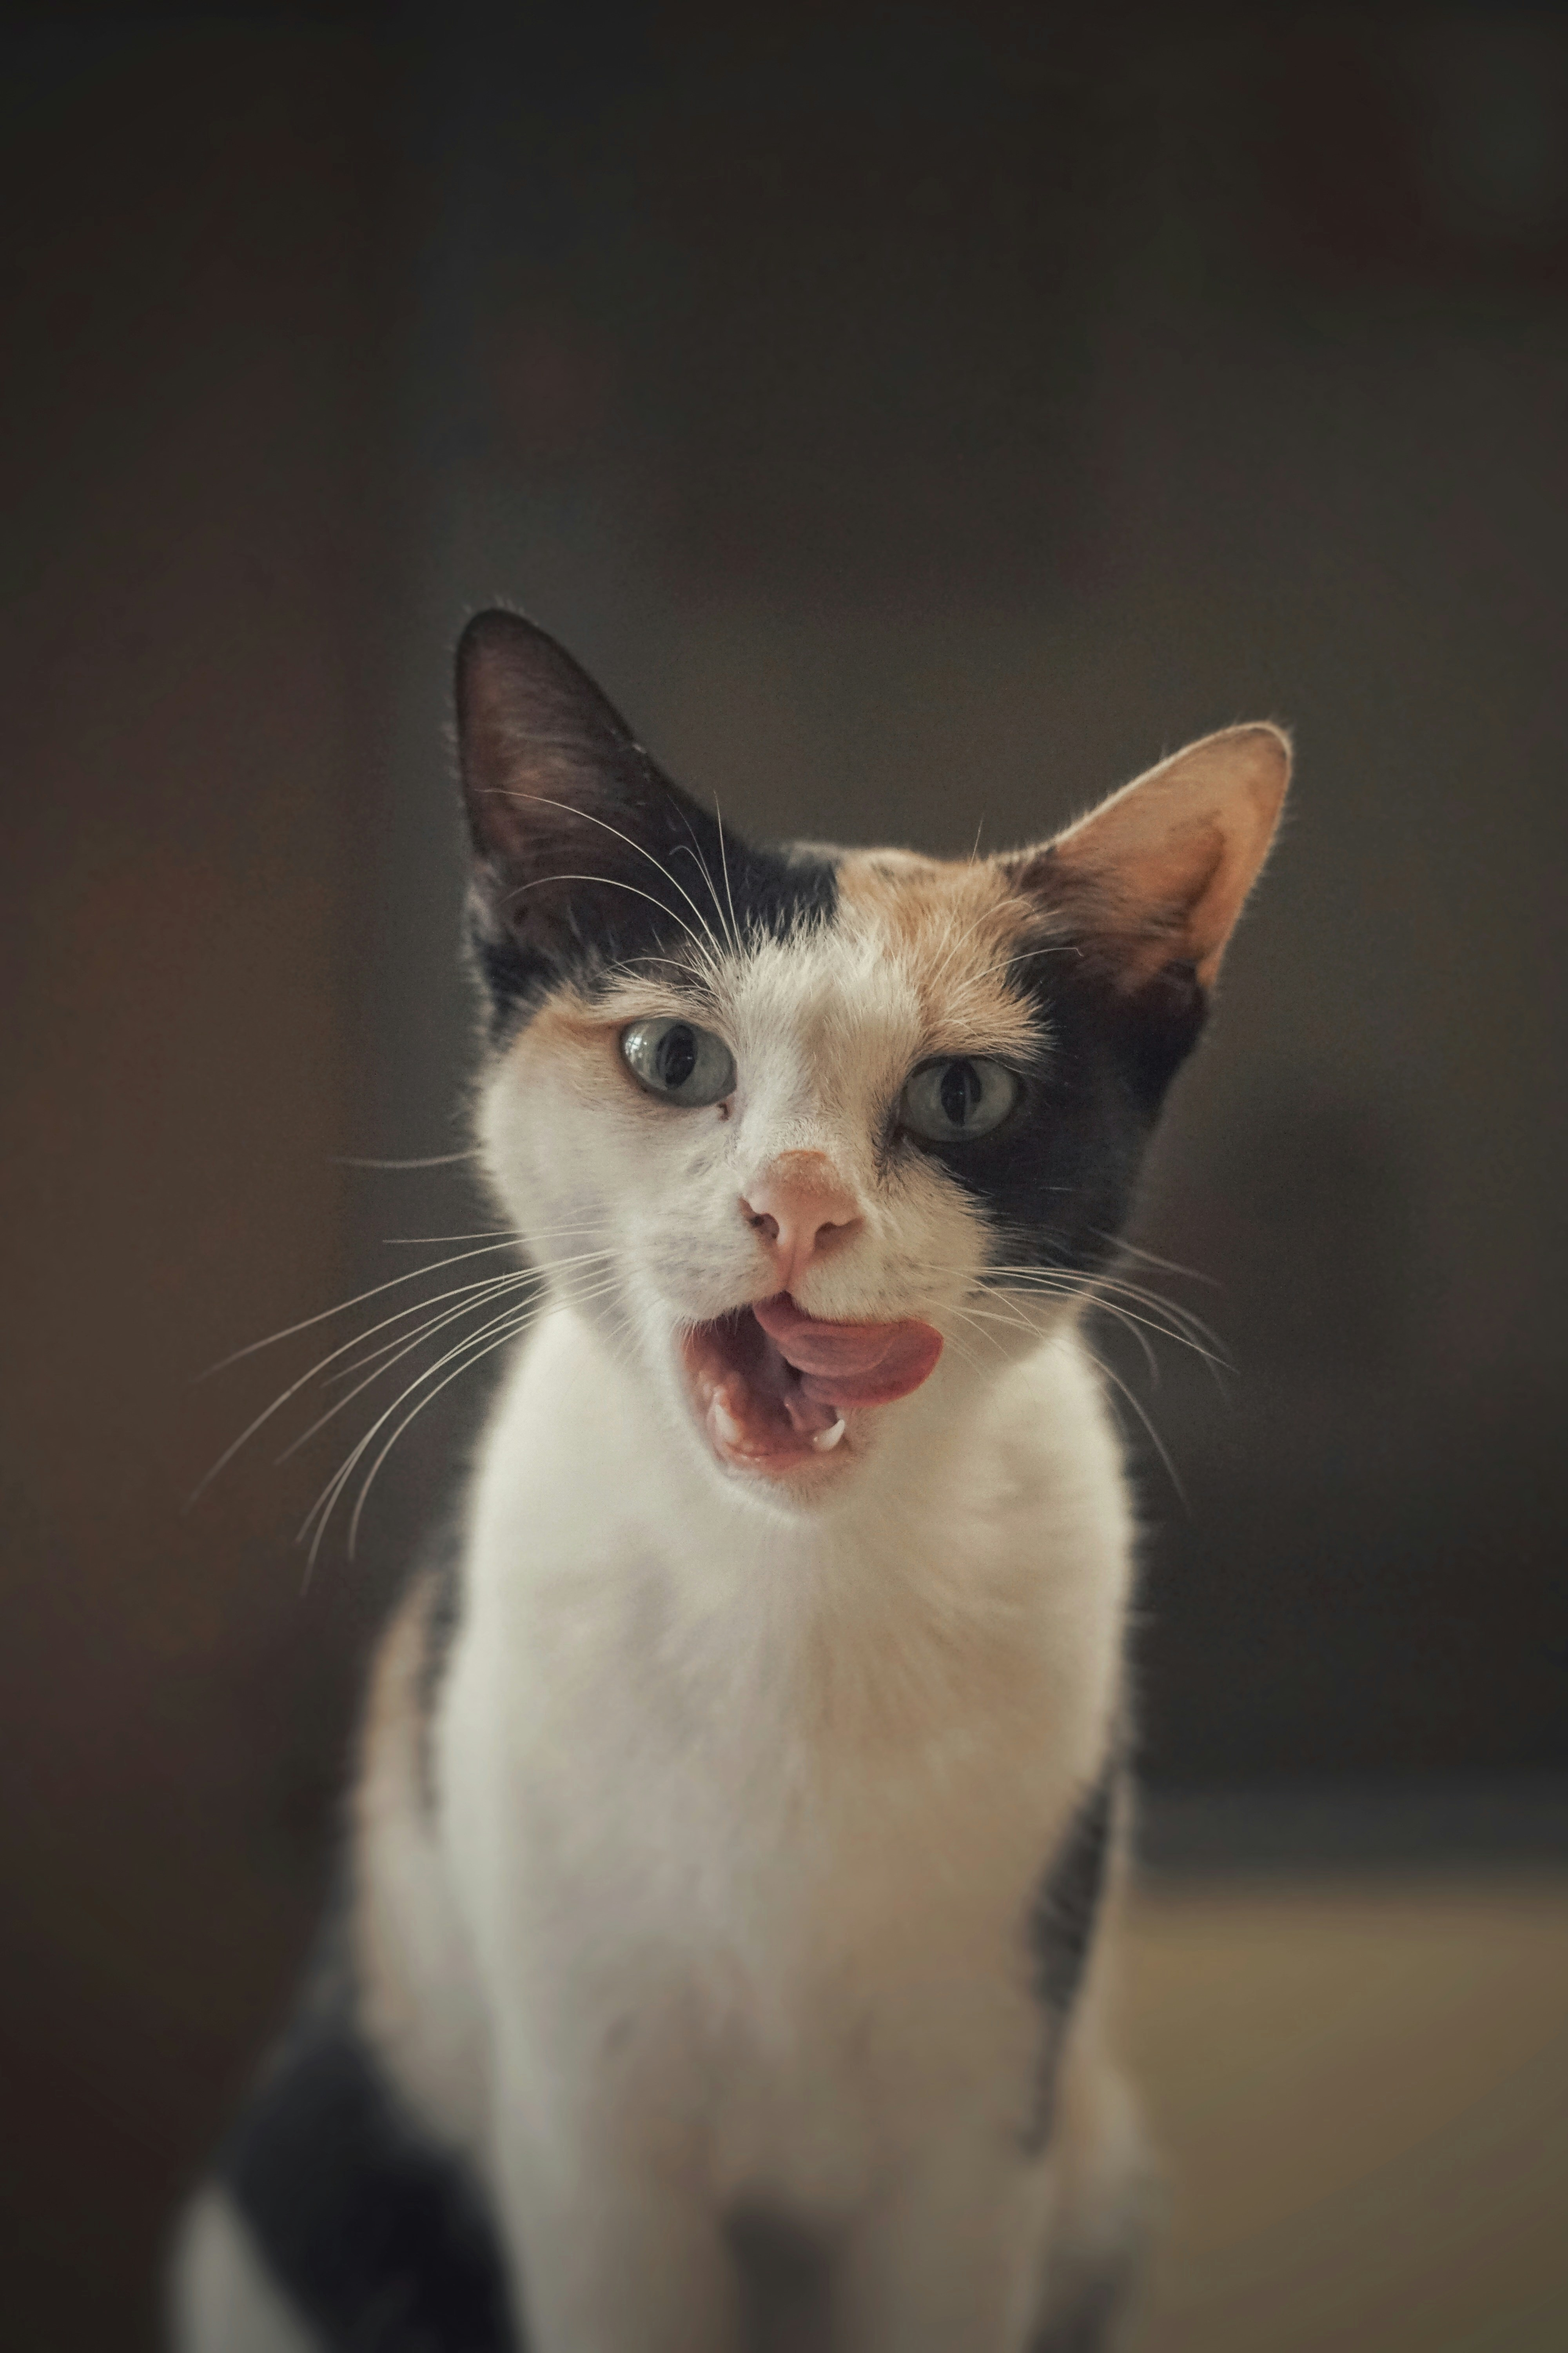
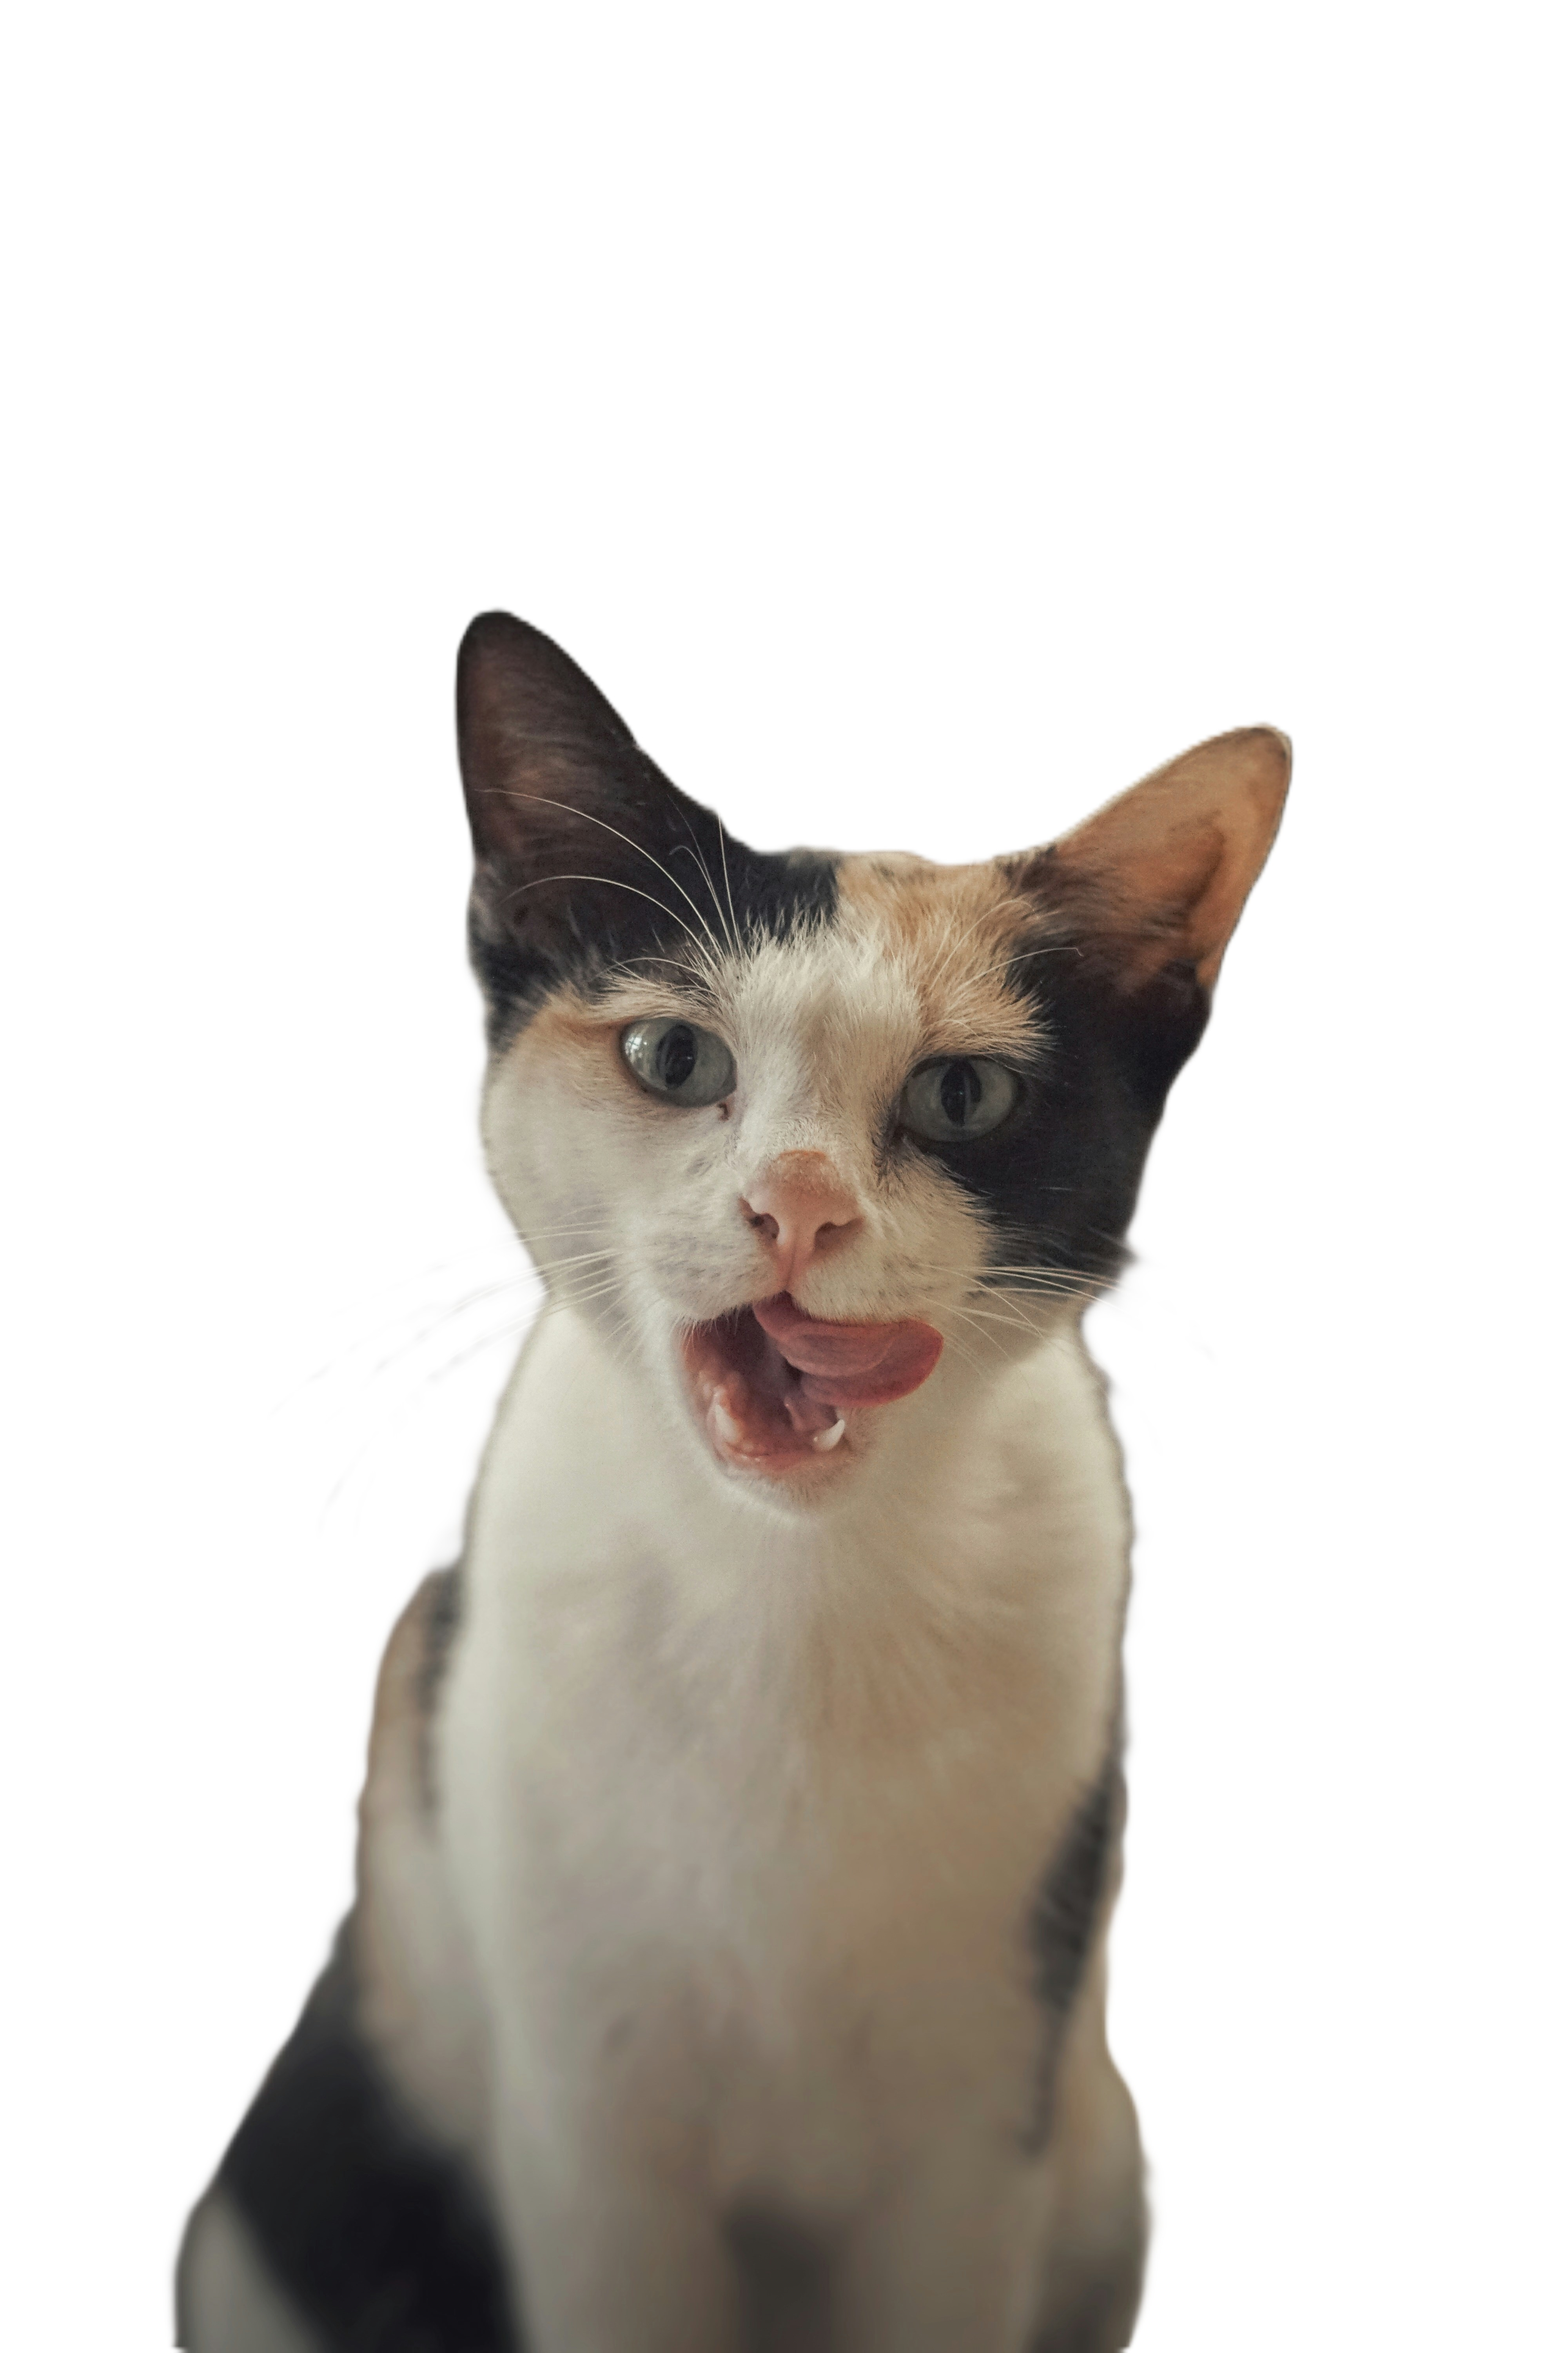
fixed packages

diff --git a/src/components/Packages.jsx b/src/components/Packages.jsx
@@ -24,37 +24,41 @@ const Packages = () => {
                 <p className="text-sm text-gray-100">* Prices Inclusive of GST</p>
             </div>
             
-            <div className="mb-6">
-                <h3 className="text-lg font-semibold text-white mb-4">What you'll get</h3>
-                <ul className="space-y-2 text-white">
-                    <li className="flex items-center">
-                        <svg className="w-4 h-4 mr-2 text-white" fill="none" stroke="currentColor" viewBox="0 0 24 24" xmlns="http://www.w3.org/2000/svg">
-                        <path strokeLinecap="round" strokeLinejoin="round" strokeWidth={2} d="M5 13l4 4L19 7" />
-                        </svg>
-                        Grooming sessions
-                    </li>
-                    <li className="flex items-center">
-                        <svg className="w-4 h-4 mr-2 text-white" fill="none" stroke="currentColor" viewBox="0 0 24 24" xmlns="http://www.w3.org/2000/svg">
-                        <path strokeLinecap="round" strokeLinejoin="round" strokeWidth={2} d="M5 13l4 4L19 7" />
-                        </svg>
-                        Body clippings
-                    </li>
-                    <li className="flex items-center">
-                        <svg className="w-4 h-4 mr-2 text-white" fill="none" stroke="currentColor" viewBox="0 0 24 24" xmlns="http://www.w3.org/2000/svg">
-                        <path strokeLinecap="round" strokeLinejoin="round" strokeWidth={2} d="M5 13l4 4L19 7" />
-                        </svg>
-                        Hydrotherapy sessions
-                    </li>
-                </ul>
+            <div className="mb-6 relative">
 
-                <div className="pt-16">
-                    <button className="bg-black text-center font-bold hover:bg-white hover:text-black hover:border-black text-white py-2 px-4 rounded-3xl transition duration-200">
-                        Choose
-                    </button>
+                <div className="relative z-10 bg-cover items-end bg-transparent bg-center bg-no-repeat" style={{ backgroundImage: "url('/cat3R.jpg')" }}>
+
+                    <h3 className="text-lg font-semibold text-white mb-4">What you'll get</h3>
+                    <ul className="space-y-2 text-white">
+                        <li className="flex items-center">
+                            <svg className="w-4 h-4 mr-2 text-white" fill="none" stroke="currentColor" viewBox="0 0 24 24" xmlns="http://www.w3.org/2000/svg">
+                            <path strokeLinecap="round" strokeLinejoin="round" strokeWidth={2} d="M5 13l4 4L19 7" />
+                            </svg>
+                            Grooming sessions
+                        </li>
+                        <li className="flex items-center">
+                            <svg className="w-4 h-4 mr-2 text-white" fill="none" stroke="currentColor" viewBox="0 0 24 24" xmlns="http://www.w3.org/2000/svg">
+                            <path strokeLinecap="round" strokeLinejoin="round" strokeWidth={2} d="M5 13l4 4L19 7" />
+                            </svg>
+                            Body clippings
+                        </li>
+                        <li className="flex items-center">
+                            <svg className="w-4 h-4 mr-2 text-white" fill="none" stroke="currentColor" viewBox="0 0 24 24" xmlns="http://www.w3.org/2000/svg">
+                            <path strokeLinecap="round" strokeLinejoin="round" strokeWidth={2} d="M5 13l4 4L19 7" />
+                            </svg>
+                            Hydrotherapy sessions
+                        </li>
+                    </ul>
+
+                    <div className="pt-16">
+                        <button className="bg-black text-center font-bold hover:bg-white hover:text-black hover:border-black text-white py-2 px-4 rounded-3xl transition duration-200">
+                            Choose
+                        </button>
+                    </div>
+
                 </div>
             </div>
-            
-
+        
         </div>
     </div>
   );
